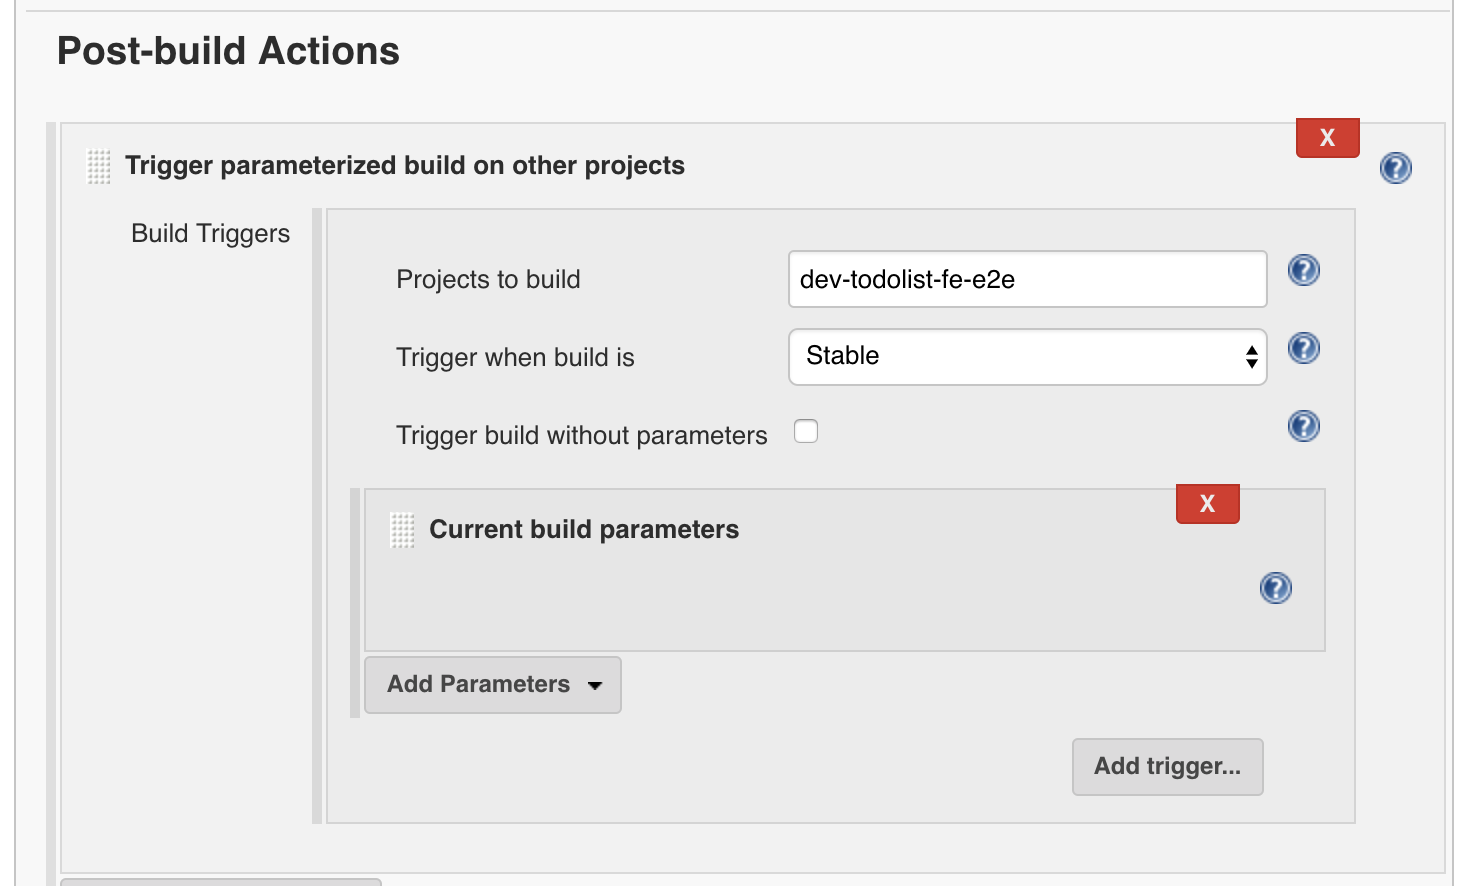
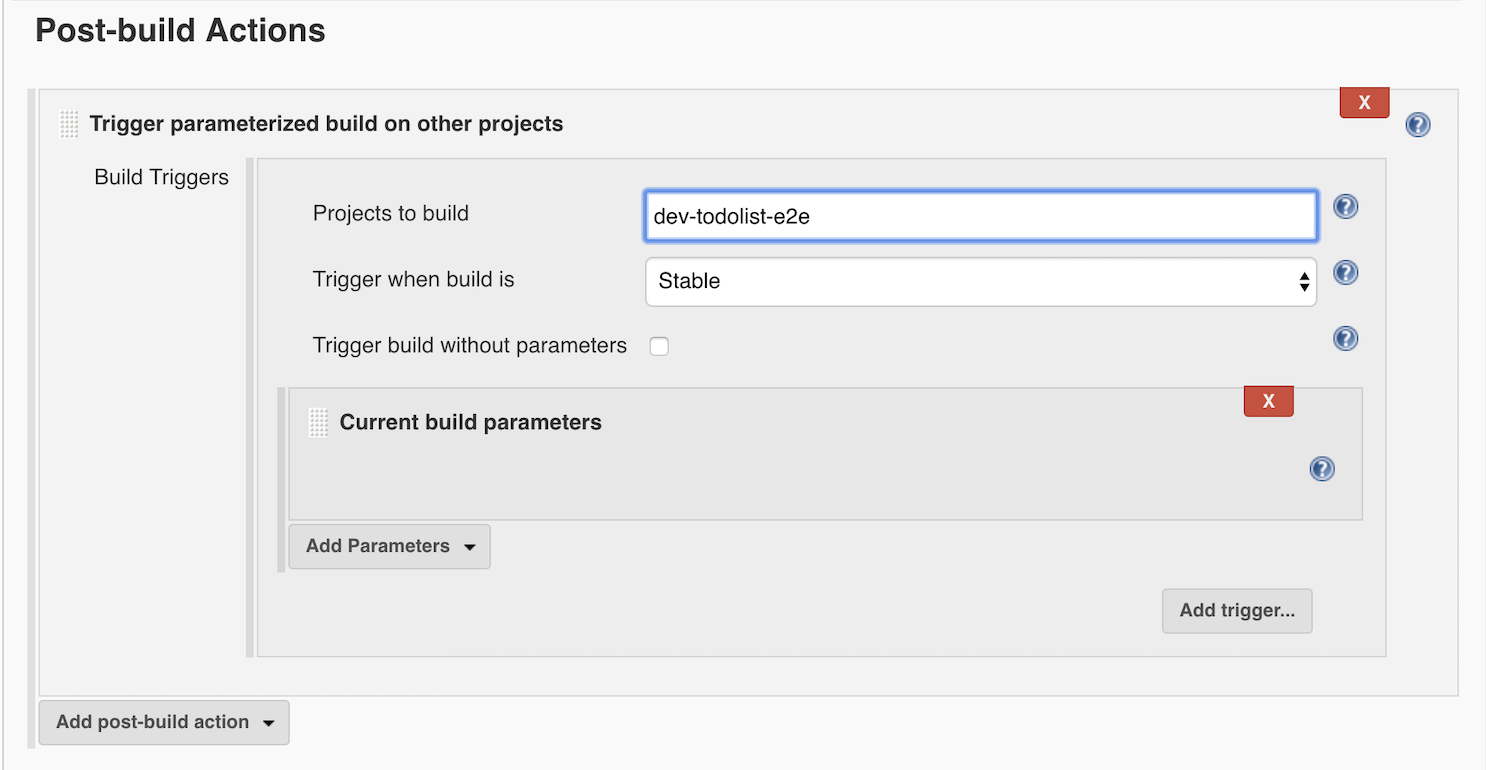
Updating exercise 3 due todolist app merge

diff --git a/exercises/3-revenge-of-the-automated-testing/README.md b/exercises/3-revenge-of-the-automated-testing/README.md
@@ -93,9 +93,9 @@ _On page load:_
 #### 1a - Unit tests
 > In this exercise we will execute our test for the front end locally. Once verified we will add them to Jenkins.
 
-1. Before linking our automated testing to the pipeline we'll first ensure the tests run locally. Change to the `todolist-fe` directory and run `test`.
+1. Before linking our automated testing to the pipeline we'll first ensure the tests run locally. Change to the `todolist` directory and run `test`.
 ```bash
-cd todolist-fe
+cd todolist
 ```
 ```bash
 npm run test
@@ -106,59 +106,40 @@ npm run test
 
 ![screenshot-scripts](../images/exercise3/screenshot-scripts.png)
 
-2. This command will run all `*spec.js` files. Our test files are stored in the following places. There are 12 front end test files stored in these directories: `todolist-fe/tests/unit/vue-components/*` & `todolist-fe/tests/unit/javascript/*`
+2. This command will run all `*spec.js` files. Our test files are stored in the following places. There are 12 front end test files stored in these directories: `todolist/tests/unit/vue-components/*` & `todolist/tests/unit/javascript/*`
 
 3. You should see an output similar to the following. The above command has run a test suite for every `*.spec.js` file. The table generated in the terminal shows the code coverage. We're going to be focusing on the unit tests for now.
 
 ![test-run-locally](../images/exercise3/test-run-locally.png)
 
-4. Repeat the same process for `todolist-api` and verify that all the tests run. If you have an ExpressJS server already running from previous exercise; you should kill it before running the tests. The `mocha` test suite will launch a dev server for running the tests. There are 2 API test files: `todolist-api/server/api/todo/todo.spec.js` & `todolist-api/server/mocks/mock-routes.spec.js` for our API and the Mocks server. Remember to start the `mongo` container before running the tests
-```bash
-cd todolist-api
-```
-```bash
-npm run mongo:start
-```
-```bash
-npm run test
-```
-
-<p class="tip" >
-<b>NOTE</b> - On Windows systems, tests will fail because Mocha is unable to find the `*.spec.js` files. Edit the `package.json` file, and remove the single quotes around `server/**/*.spec.js` in the `test` line as follows:
-</p>
-
-```bash
-"test": "node_modules/.bin/nyc node_modules/.bin/mocha server/**/*.spec.js --exit"
-```
-
-5. Navigate to your instance of Jenkins at `https://jenkins-<YOUR_NAME>-ci-cd.<APPS_URL>`.
-Click on `dev-todolist-fe-build` and then click the `configure` button on the left-hand side.
+4. Navigate to your instance of Jenkins at `https://jenkins-<YOUR_NAME>-ci-cd.<APPS_URL>`.
+Click on `dev-todolist-build` and then click the `configure` button on the left-hand side.
 
 ![jenkins-configure-job](../images/exercise3/jenkins-configure-job.png)
 
-6. Scroll to the `Build` part of the configuration page and add `npm run test` below `npm install`.
+5. Scroll to the `Build` part of the configuration page and add `npm run test` below `npm install`.
 
 ![jenkins-build-step](../images/exercise3/jenkins-build-step.png)
 
-7. Scroll to the `Post-build Actions` section and click `Add post-build action`. Select `Publish xUnit test result report` (Jenkins might place this at the top of the `Post-build Actions` list).
+6. Scroll to the `Post-build Actions` section and click `Add post-build action`. Select `Publish xUnit test result report` (Jenkins might place this at the top of the `Post-build Actions` list).
 
 ![xunit-action](../images/exercise3/xunit-action.png)
 
-8. Click the `Add` button under `Publish xUnit test result report` and select `JUnit`. In the pattern field enter `test-report.xml`. In the `Failed Tests Thresholds`  input box enter 0 under `Red Ball Total`. It should look a little something like this:
+7. Click the `Add` button under `Publish xUnit test result report` and select `JUnit`. In the pattern field enter `test-report.xml`. In the `Failed Tests Thresholds`  input box enter 0 under `Red Ball Total`. It should look a little something like this:
 
 ![post-build-actions](../images/exercise3/post-build-actions.png)
 
-9. Click `Save` at the bottom to save the changes. Run the `dev-todolist-fe-build` job and verify that this passes and the `build` and `bake` jobs are both triggered.
+8. Click `Save` at the bottom to save the changes. Run the `dev-todolist-build` job and verify that this passes and the `build` and `bake` jobs are both triggered.
 
 
 #### 1b - End to End Tests (e2e)
 > _Unit tests are a great way to get immediate feedback as part of testing an application. End to end tests that drive user behaviour are another amazing way to ensure an application is behaving as expected._
 
-In this part of the exercise, we will add a new stage to our pipeline called `dev-todolist-fe-e2e` that will run after the deploy has been completed. End to end tests will use `Nightwatch.js` to orchestrate a selenium webdriver instance that controls the web browser; in this case Google Chrome!
+In this part of the exercise, we will add a new stage to our pipeline called `dev-todolist-e2e` that will run after the deploy has been completed. End to end tests will use `Nightwatch.js` to orchestrate a selenium webdriver instance that controls the web browser; in this case Google Chrome!
 
-1. Let's start by checking that our tests execute locally. On the terminal move to the `todolist-fe` folder. Our end to end tests are stored in `tests/e2e/specs/`. The vuejs cli uses Nightwatch.js and comes pre-configured to run tests against Google Chrome. We have created some additional configuration in the root of the project `nightwatch.config.js` to run headless in CI mode on Jenkins.
+1. Let's start by checking that our tests execute locally. On the terminal move to the `todolist` folder. Our end to end tests are stored in `tests/e2e/specs/`. The vuejs cli uses Nightwatch.js and comes pre-configured to run tests against Google Chrome. We have created some additional configuration in the root of the project `nightwatch.config.js` to run headless in CI mode on Jenkins.
 ```bash
-cd todolist-fe
+cd todolist
 ```
 
 2. Run the tests locally by executing the following. This should start the dev server and run the test. You may see the browser pop up and close while tests execute.
@@ -172,13 +153,13 @@ npm run e2e
 <b>NOTE</b> - On Windows systems, you will see the firewall pop-up and ask permission to allow access. Click allow access to continue.
 </p>
 
-3. With tests executing locally; let's add them to our Jenkins pipeline. To do this; we'll create a new job and connect it up to our `todolist-fe` jobs. Open Jenkins and create a `New Item` called `dev-todolist-fe-e2e`. Make this Job `Freestyle`.
+3. With tests executing locally; let's add them to our Jenkins pipeline. To do this; we'll create a new job and connect it up to our `todolist` jobs. Open Jenkins and create a `New Item` called `dev-todolist-e2e`. Make this Job `Freestyle`.
 
 4. On the configuration page (under the general tab); Set the Label for the job to run on as `jenkins-slave-npm`. Check the box marking the build parameterised and add a String parameter of `BUILD_TAG` as done before
 
 ![e2e-general](../images/exercise3/e2e-general.png)
 
-5. On the Source Code Management tab; set the source code to git and add the url to your `todolist-fe` app. Set the branch to `refs/tags/${BUILD_TAG}`
+5. On the Source Code Management tab; set the source code to git and add the url to your `todolist` app. Set the branch to `refs/tags/${BUILD_TAG}`
 
 ![e2e-git](../images/exercise3/e2e-git.png)
 
@@ -186,7 +167,7 @@ npm run e2e
 
 7. On the Build section; add a build step to execute shell and fill in the following substituting `<YOUR_NAME>` accordingly:
 ```bash
-export E2E_TEST_ROUTE=todolist-fe-<YOUR_NAME>-dev.<APPS_URL>
+export E2E_TEST_ROUTE=todolist-<YOUR_NAME>-dev.<APPS_URL>
 npm install
 npm run e2e:ci
 ```
@@ -196,7 +177,7 @@ npm run e2e:ci
 
 ![e2e-post-build](../images/exercise3/e2e-post-build.png)
 
-9. We want to connect the e2e job we just created to our dev pipleline by editing the post build actions on `dev-todolist-fe-deploy` job. Open the `dev-todolist-fe-deploy` job and hit `configure`. In the `Post-build actions` section of this job add a `Trigger parameterised build` on other jobs. Set the `Projects to build` to be `dev-todolist-fe-e2e`. Add a Parameter and set the it to the `Current build parameters`. Save the settings.
+9. We want to connect the e2e job we just created to our dev pipleline by editing the post build actions on `dev-todolist-deploy` job. Open the `dev-todolist-deploy` job and hit `configure`. In the `Post-build actions` section of this job add a `Trigger parameterised build` on other jobs. Set the `Projects to build` to be `dev-todolist-e2e`. Add a Parameter and set the it to the `Current build parameters`. Save the settings.
 
 ![e2e-trigger](../images/exercise3/e2e-trigger.png)
 
@@ -217,12 +198,12 @@ _On page load:_
 - [ ] should display existing todos that are not marked important
 - [ ] should display existing todos that are marked important with an red flag
 
-#### 2a - Create todolist-api tests
+#### 2a - Create todolist api tests
 > Using [Mocha](https://mochajs.org/) as our test runner; we will now write some tests for backend functionality to persist our important-flag. The changes required to the backend are minimal but we will use TDD to create our test first, then implement the functionality.
 
-1.  Create a new branch in your `todolist-api` app for our feature and push it to the remote
+1.  Create a new branch in your `todolist` app for our feature and push it to the remote
 ```bash
-cd todolist-api
+cd todolist
 ```
 ```bash
 git checkout -b feature/important-flag
@@ -351,12 +332,12 @@ git merge feature/important-flag
 git push
 ```
 
-3.  After pushing your changes; start back up the `todolist-api` app on a new terminal session
+11.  After pushing your changes; start back up the `todolist` app on a new terminal session
 ```bash
 npm run start
 ```
 
-#### 2b - Create todolist-fe tests
+#### 2b - Create todolist front-end tests
 > Using [Jest](https://facebook.github.io/jest/) as our test runner and the `vue-test-utils` library for managing our vue components; we will now write some tests for front end functionality to persist our important-flag. The changes required to the front end are quite large but we will use TDD to create our test first, then implement the functionality.
 
 Our TodoList App uses `vuex` to manage the state of the app's todos and `axios` HTTP library to connect to the backend. `Vuex` is an opinionated framework for managing application state and has some key design features you will need to know to continue with the exercise.
@@ -368,17 +349,17 @@ There are two parts of the lifecycle to updating the store, the `actions` & `mut
 For example; when marking a todo as done in the UI, the following flow occurs
   * The `TodoItem.vue` calls the `markTodoDone()` function which dispatches an event to the store.
   * This calls the `updateTodo()` function in the `actions.js` file
-  * The action will update the backend db (calling our `todolist-api`) with our updated todo object.
+  * The action will update the backend db (calling our `todolist api`) with our updated todo object.
   * The action will commit the change to the store by calling the mutation method `MARK_TODO_COMPLETED`
   * The `MARK_TODO_COMPLETED` will directly access the store object and update it with the new state value
   * The `ListOfTodos.vue` component is watching the store for changes and when something gets updated it re-renders the `TodoItem.vue`.
 
 The implementation of our `important` flag will follow this same flow.
 
-1. Let's implement our feature by first creating a branch. Our new feature, important flag will behave in the same way as the `MARK_TODO_COMPLETED`. Create a new branch in your `todolist-fe` app for our feature and push it to the remote
+1. Let's implement our feature by first creating a branch. Our new feature, important flag will behave in the same way as the `MARK_TODO_COMPLETED`. Create a new branch in your `todolist` app for our feature and push it to the remote
 
 ```bash
-cd todolist-fe
+cd todolist
 ```
 ```bash
 git checkout -b feature/important-flag
@@ -400,7 +381,7 @@ npm run test -- --watch
 ERROR jest exited with code 1.
 npm ERR! code ELIFECYCLE
 npm ERR! errno 1
-npm ERR! todolist-fe@1.0.0 test: `vue-cli-service test "--watch"`
+npm ERR! todolist@1.0.0 test: `vue-cli-service test "--watch"`
 npm ERR! Exit status 1
 ```
 To fix this error, run the following command:
